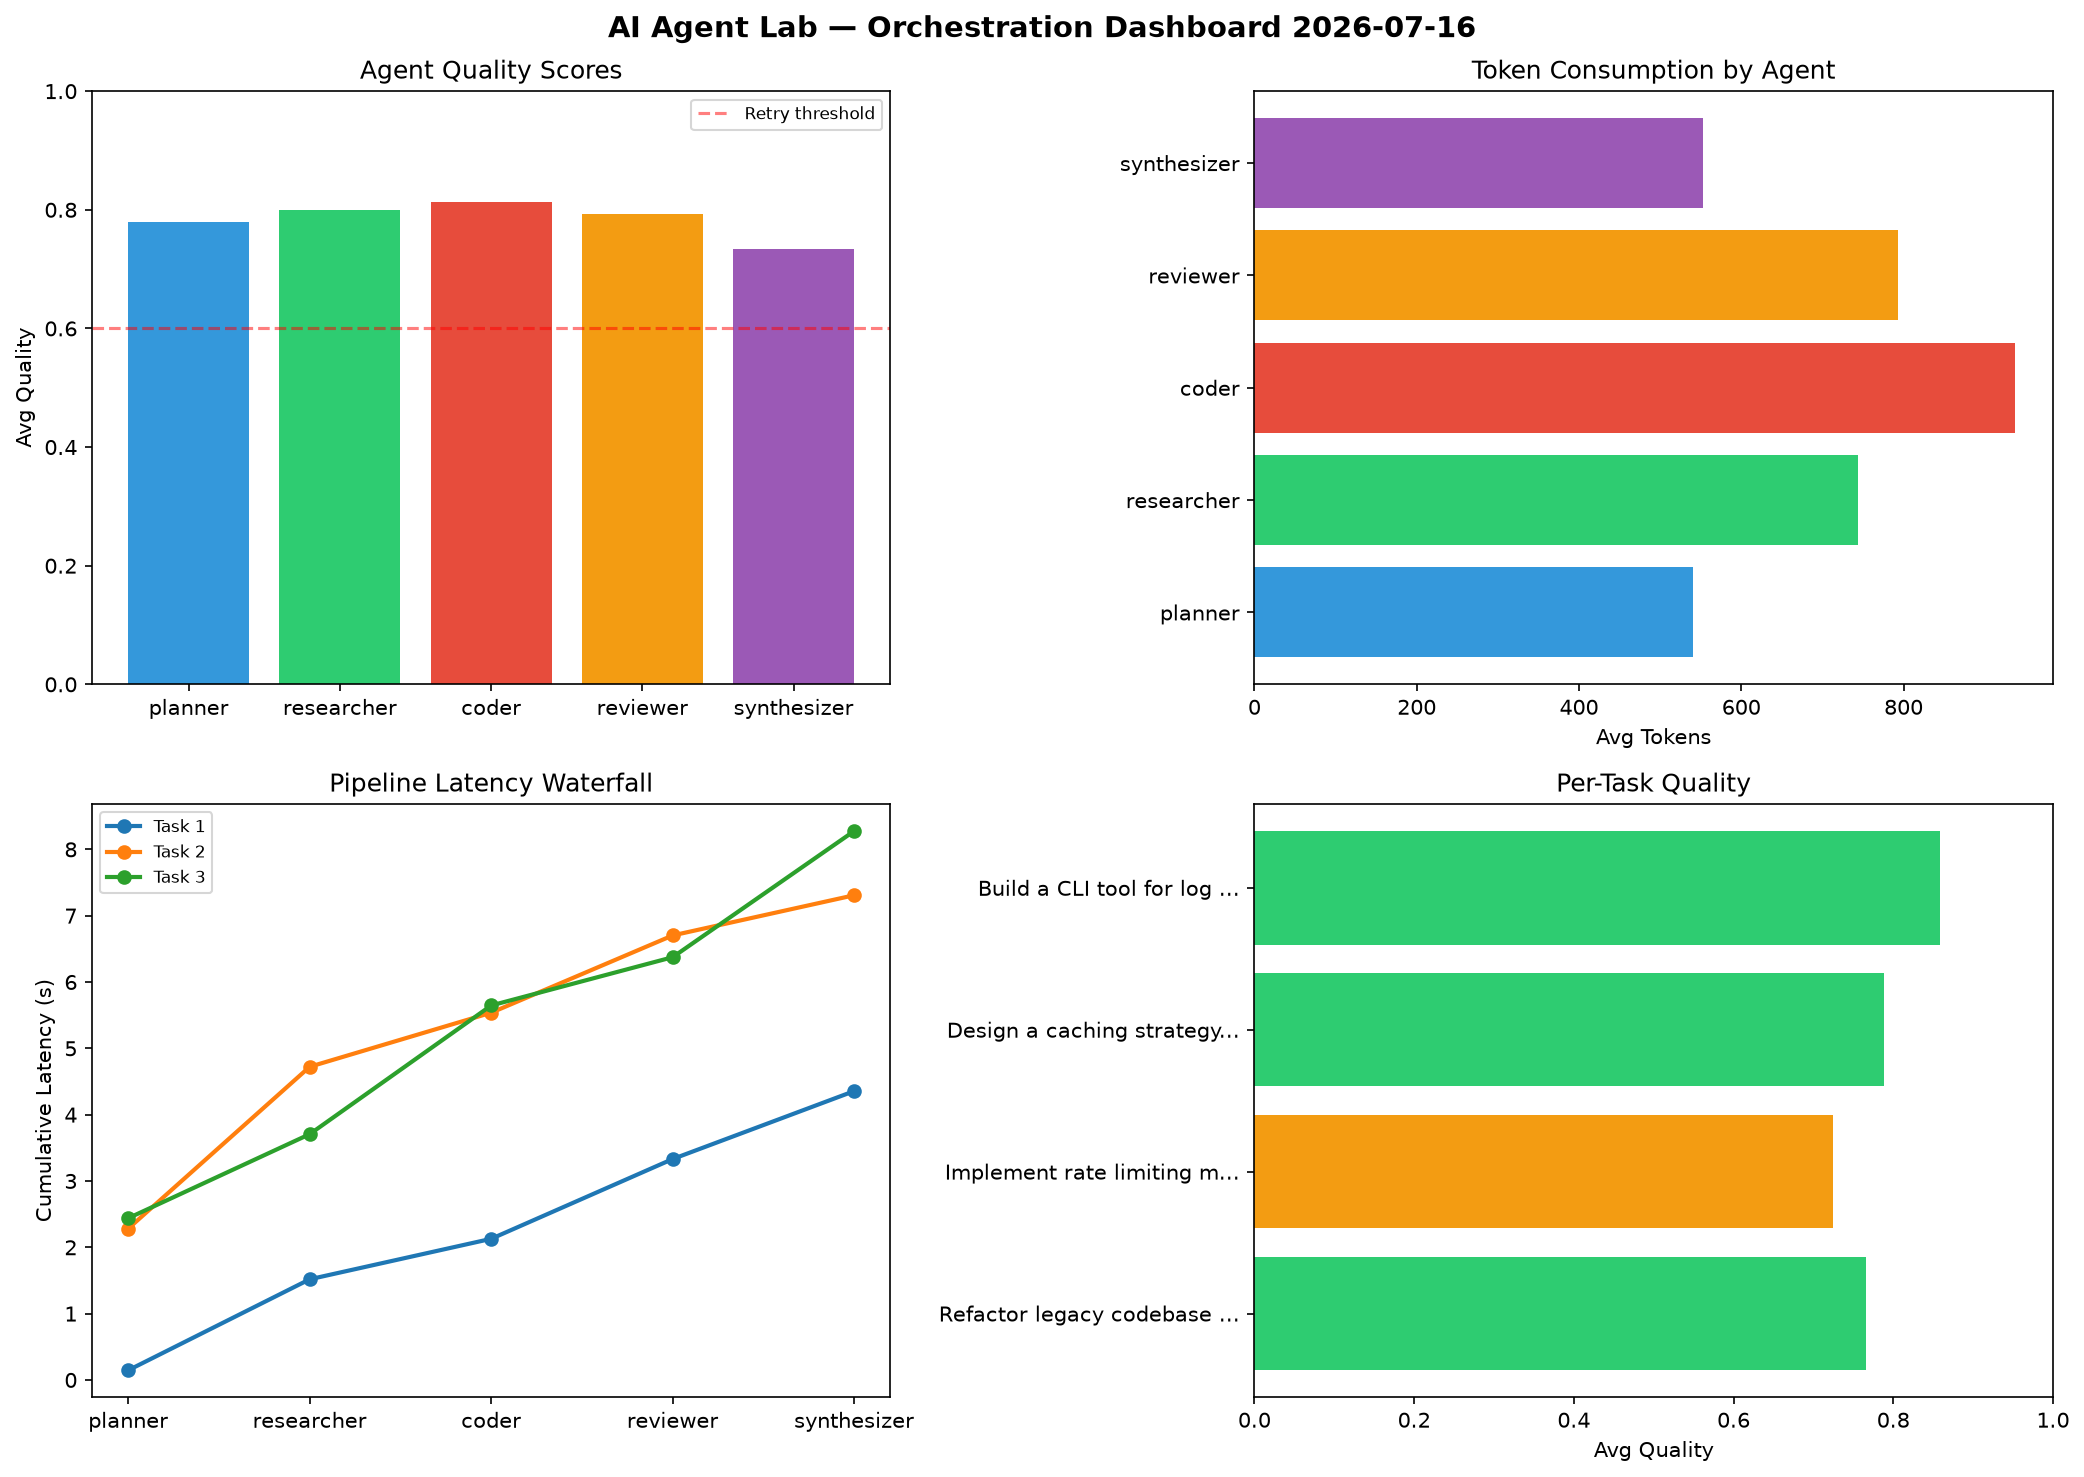
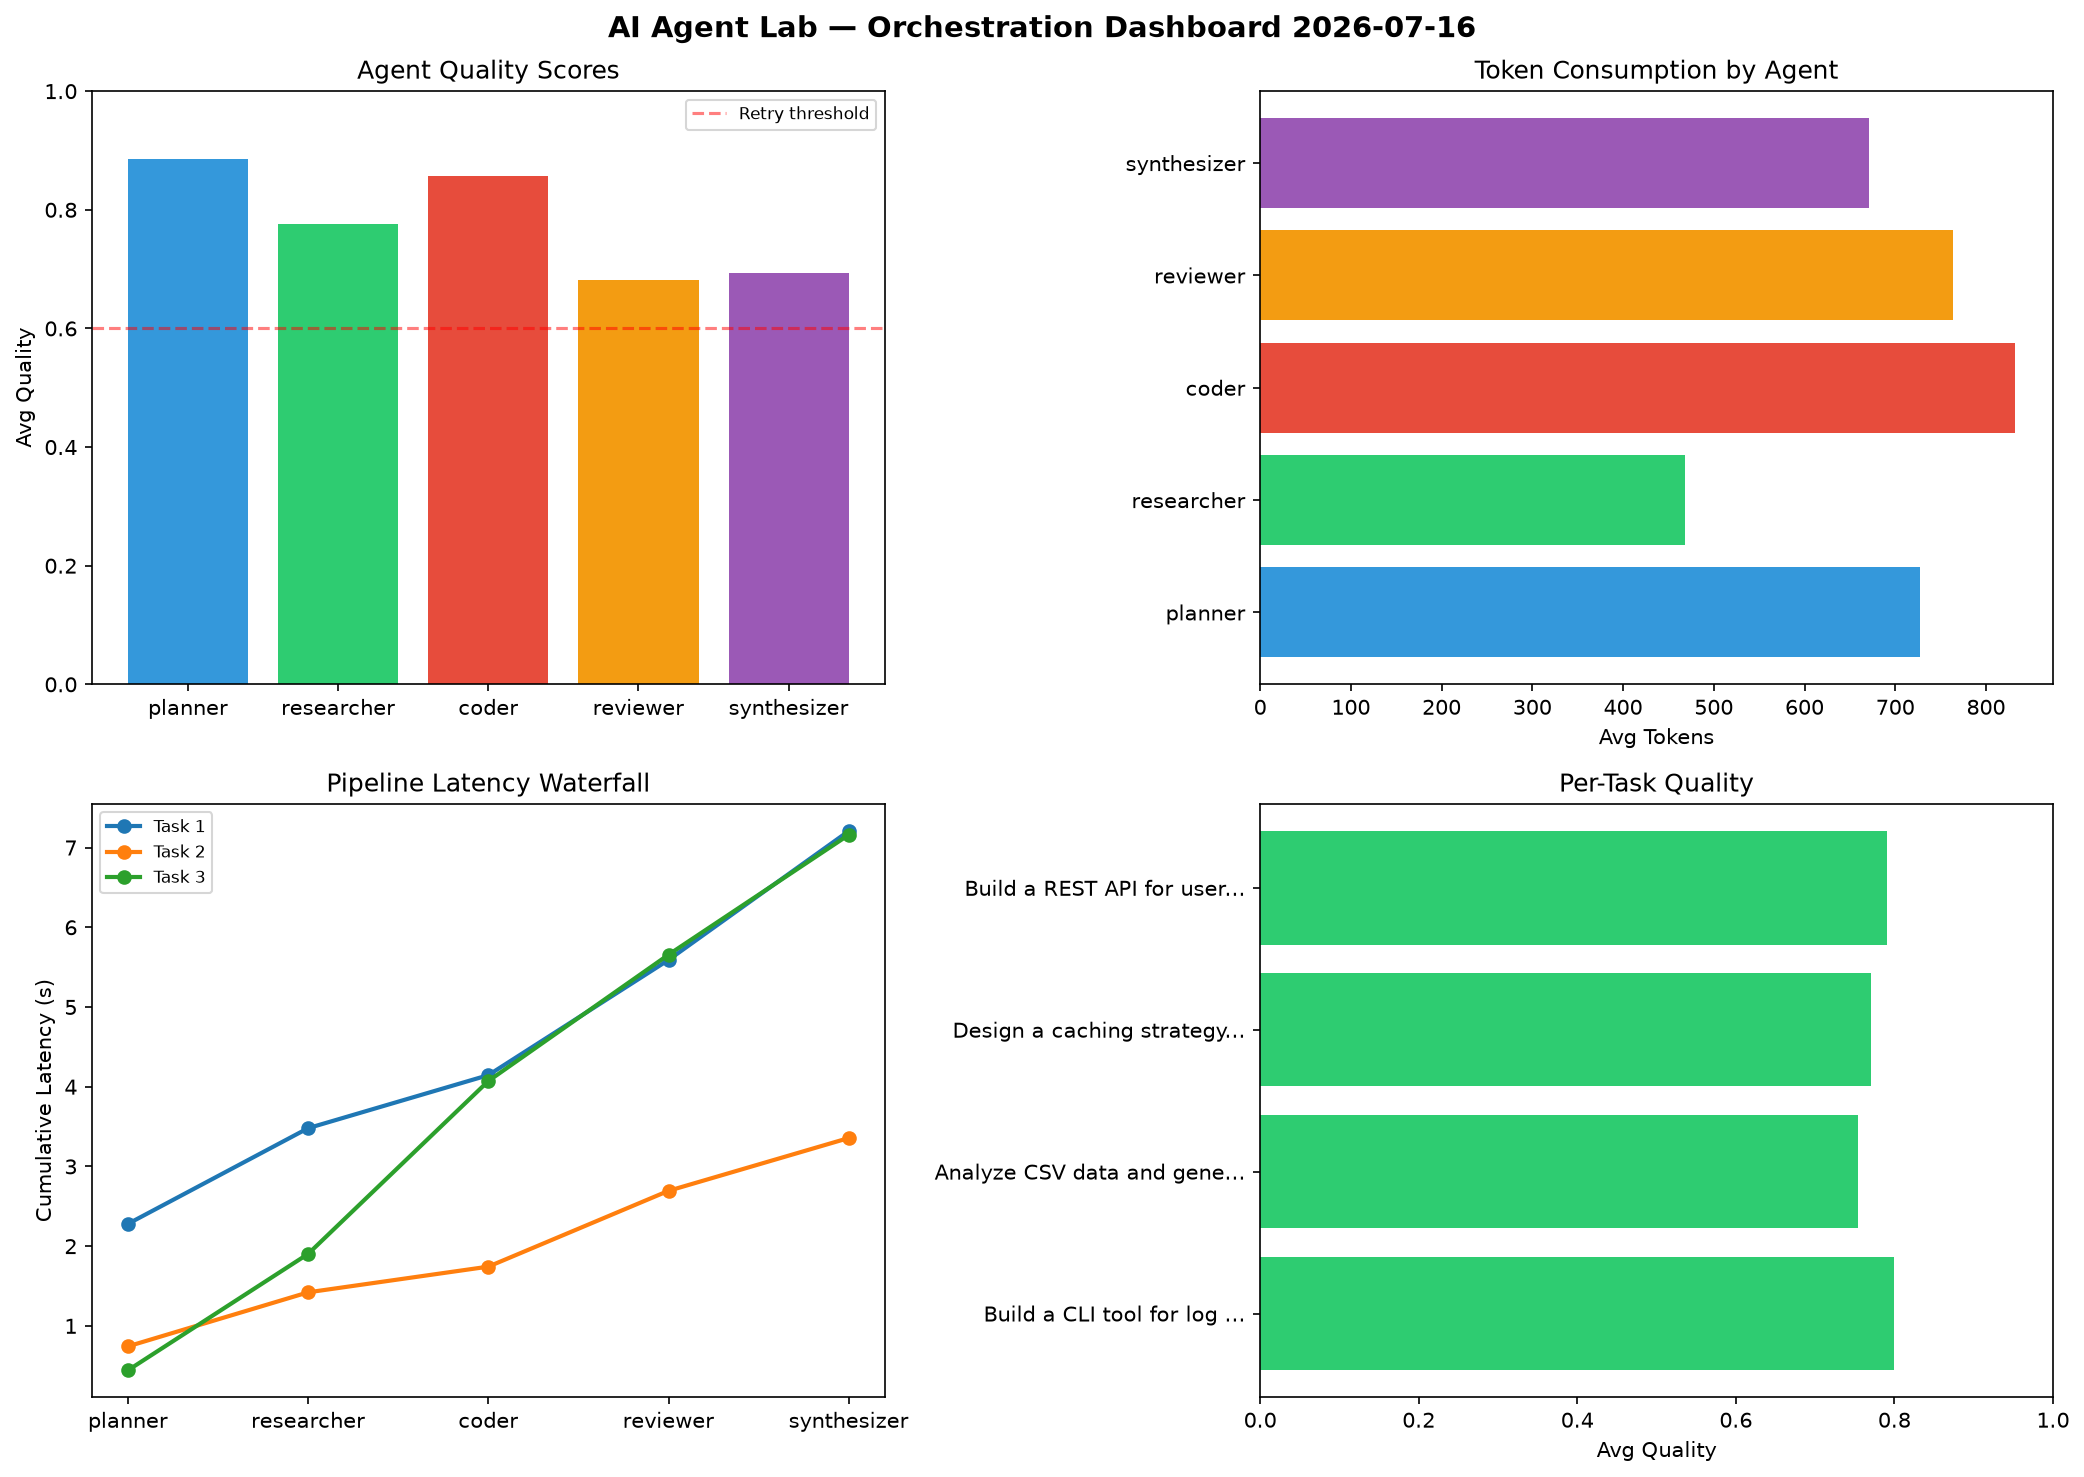
ai-agent-lab: orchestration run 2026-07-16T15:48

diff --git a/logs/2026-07-16.md b/logs/2026-07-16.md
@@ -1,6 +1,6 @@
 # AI Agent Lab — Orchestration Report 2026-07-16
 
-**Run ID:** `a27e6a073e` | **Tasks:** 4 | **Avg Quality:** 0.784
+**Run ID:** `bf2b0ccec8` | **Tasks:** 4 | **Avg Quality:** 0.779
 
 ![Dashboard](2026-07-16_dashboard.png)
 
@@ -8,52 +8,52 @@
 
 | Metric | Value |
 |--------|-------|
-| avg_latency | 6.732 |
-| total_tokens | 14269 |
-| avg_quality | 0.784 |
+| avg_latency | 6.118 |
+| total_tokens | 13848 |
+| avg_quality | 0.779 |
 
 ## Delta vs Yesterday
 
 | Metric | Today | Yesterday | Change |
 |--------|-------|-----------|--------|
-| avg_latency | 6.732 | 5.351 | 📈 25.8% |
-| total_tokens | 14269 | 15835 | 📉 -9.9% |
-| avg_quality | 0.784 | 0.699 | 📈 12.2% |
+| avg_latency | 6.118 | 5.351 | 📈 14.3% |
+| total_tokens | 13848 | 15835 | 📉 -12.5% |
+| avg_quality | 0.779 | 0.699 | 📈 11.4% |
 
 ## Pipeline Results
-
-### Refactor legacy codebase to use dependency injection
-| Agent | Quality | Latency | Tokens | Status |
-|-------|---------|---------|--------|--------|
-| planner | 0.786 | 0.146s | 881 | success |
-| researcher | 0.673 | 1.372s | 619 | success |
-| coder | 0.549 | 0.61s | 796 | needs_retry |
-| reviewer | 0.825 | 1.203s | 923 | success |
-| synthesizer | 0.998 | 1.024s | 552 | success |
-
-### Implement rate limiting middleware
-| Agent | Quality | Latency | Tokens | Status |
-|-------|---------|---------|--------|--------|
-| planner | 0.616 | 2.282s | 485 | success |
-| researcher | 0.819 | 2.44s | 734 | success |
-| coder | 0.989 | 0.815s | 1055 | success |
-| reviewer | 0.679 | 1.165s | 843 | success |
-| synthesizer | 0.519 | 0.606s | 766 | needs_retry |
-
-### Design a caching strategy for high-traffic endpoints
-| Agent | Quality | Latency | Tokens | Status |
-|-------|---------|---------|--------|--------|
-| planner | 0.786 | 2.439s | 386 | success |
-| researcher | 0.921 | 1.267s | 1006 | success |
-| coder | 0.768 | 1.94s | 908 | success |
-| reviewer | 0.934 | 0.728s | 503 | success |
-| synthesizer | 0.529 | 1.902s | 263 | needs_retry |
 
 ### Build a CLI tool for log analysis
 | Agent | Quality | Latency | Tokens | Status |
 |-------|---------|---------|--------|--------|
-| planner | 0.929 | 2.292s | 409 | success |
-| researcher | 0.788 | 1.139s | 615 | success |
-| coder | 0.947 | 0.254s | 990 | success |
-| reviewer | 0.735 | 2.069s | 905 | success |
-| synthesizer | 0.891 | 1.237s | 630 | success |
+| planner | 0.824 | 2.28s | 929 | success |
+| researcher | 0.921 | 1.2s | 459 | success |
+| coder | 0.929 | 0.665s | 726 | success |
+| reviewer | 0.785 | 1.445s | 839 | success |
+| synthesizer | 0.537 | 1.617s | 876 | needs_retry |
+
+### Analyze CSV data and generate statistical summary
+| Agent | Quality | Latency | Tokens | Status |
+|-------|---------|---------|--------|--------|
+| planner | 0.822 | 0.743s | 1191 | success |
+| researcher | 0.688 | 0.678s | 603 | success |
+| coder | 0.807 | 0.322s | 633 | success |
+| reviewer | 0.554 | 0.951s | 838 | needs_retry |
+| synthesizer | 0.899 | 0.662s | 315 | success |
+
+### Design a caching strategy for high-traffic endpoints
+| Agent | Quality | Latency | Tokens | Status |
+|-------|---------|---------|--------|--------|
+| planner | 0.954 | 0.443s | 422 | success |
+| researcher | 0.527 | 1.46s | 566 | needs_retry |
+| coder | 0.854 | 2.168s | 865 | success |
+| reviewer | 0.79 | 1.585s | 1086 | success |
+| synthesizer | 0.728 | 1.503s | 870 | success |
+
+### Build a REST API for user authentication
+| Agent | Quality | Latency | Tokens | Status |
+|-------|---------|---------|--------|--------|
+| planner | 0.944 | 0.44s | 367 | success |
+| researcher | 0.97 | 2.255s | 244 | success |
+| coder | 0.837 | 1.961s | 1105 | success |
+| reviewer | 0.595 | 1.117s | 291 | needs_retry |
+| synthesizer | 0.609 | 0.977s | 623 | success |
